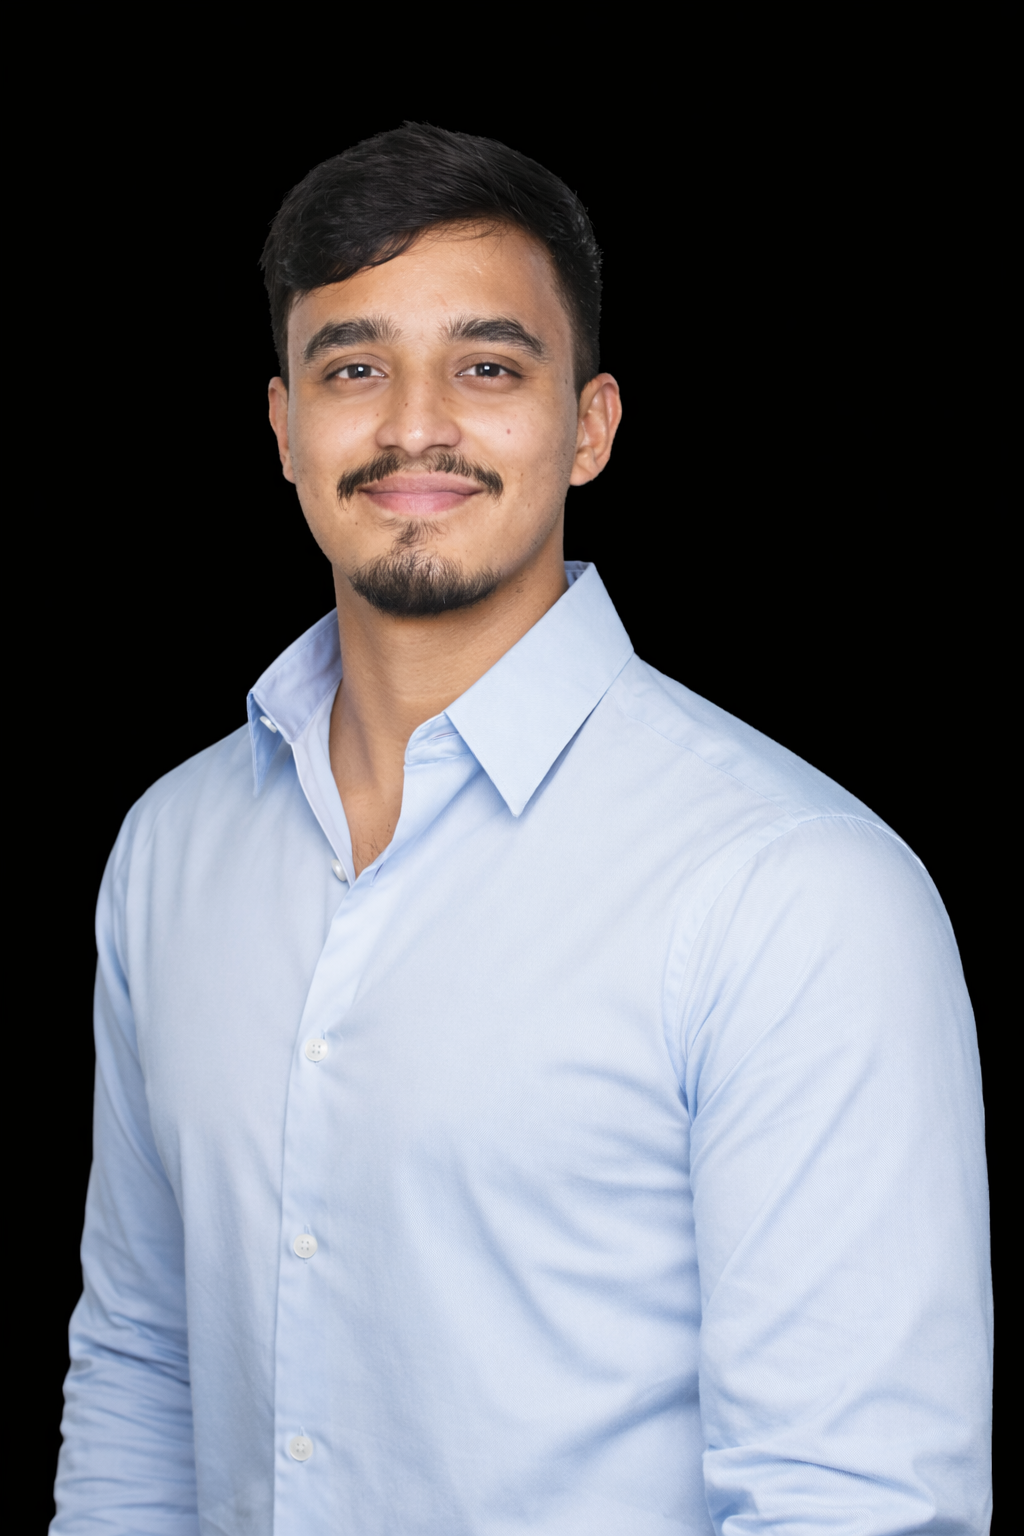
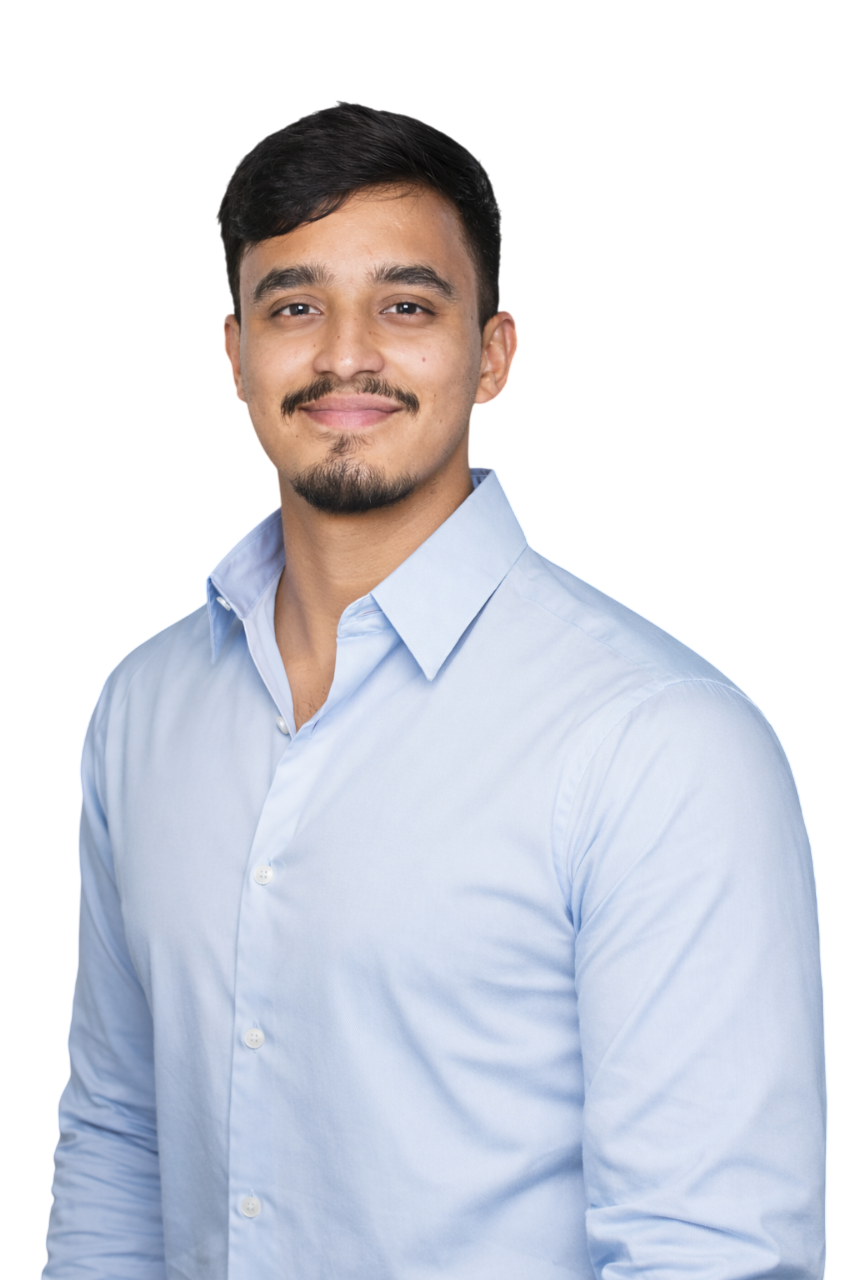
18th first commit

diff --git a/src/app/components/hero/hero.component.scss b/src/app/components/hero/hero.component.scss
@@ -6,6 +6,7 @@
     width: 100%;
     position: relative;
     overflow: hidden;
+    background: #0b0b0b;
 
     // Mobile first stack
     flex-direction: column-reverse;
@@ -14,15 +15,63 @@
         flex-direction: row;
     }
 
+    // ── Animated Background Shapes ──
+    .background-shapes {
+        position: absolute;
+        top: 0;
+        left: 0;
+        width: 100%;
+        height: 100%;
+        z-index: 0;
+        pointer-events: none;
+
+        .shape {
+            position: absolute;
+            border-radius: 50%;
+            filter: blur(100px);
+            opacity: 0.25;
+            animation: float 10s infinite ease-in-out;
+        }
+
+        .shape-1 {
+            top: -15%;
+            left: -10%;
+            width: 450px;
+            height: 450px;
+            background: radial-gradient(circle, $color-primary, transparent);
+            animation-delay: 0s;
+        }
+
+        .shape-2 {
+            bottom: -10%;
+            right: -5%;
+            width: 400px;
+            height: 400px;
+            background: radial-gradient(circle, #00bfff, transparent);
+            animation-delay: -4s;
+        }
+
+        .shape-3 {
+            top: 30%;
+            right: 20%;
+            width: 300px;
+            height: 300px;
+            background: radial-gradient(circle, #9d00ff, transparent);
+            animation-delay: -7s;
+        }
+    }
+
+    // ── Left Side: Text Content ──
     .hero-left {
         flex: 1;
-        background: $color-light-gray;
-        color: $color-bg-dark;
+        background: transparent;
+        color: #fff;
         display: flex;
         align-items: center;
         justify-content: flex-start;
         padding: 0 3rem 0 6rem;
         position: relative;
+        z-index: 1;
 
         .content {
             max-width: 600px;
@@ -30,30 +79,37 @@
         }
 
         .greeting {
-            font-size: 1.5rem;
-            font-weight: 700;
-            font-style: italic;
-            color: $color-bg-dark;
+            font-size: 1.2rem;
+            font-weight: 500;
+            color: $color-primary;
             display: block;
-            margin-bottom: 2rem;
+            margin-bottom: 1rem;
+            letter-spacing: 2px;
+            text-transform: uppercase;
         }
 
         h1 {
             font-size: 5rem;
             font-weight: 900;
             line-height: 1;
-            margin-bottom: 0.3rem;
-            color: $color-bg-dark;
+            margin-bottom: 0.5rem;
+            color: #fff;
             letter-spacing: -1px;
+            background: linear-gradient(135deg, #fff 0%, rgba(255, 255, 255, 0.7) 100%);
+            -webkit-background-clip: text;
+            background-clip: text;
+            -webkit-text-fill-color: transparent;
         }
 
         .role {
             font-size: 1.2rem;
             font-weight: 400;
-            color: #999;
+            color: $color-text-dim;
             margin-bottom: 0;
+            letter-spacing: 1px;
         }
 
+        // ── Social Icons ──
         .social-icons {
             position: absolute;
             bottom: 3rem;
@@ -62,54 +118,42 @@
             gap: 1rem;
 
             .social-icon {
-                width: 50px;
-                height: 50px;
+                width: 48px;
+                height: 48px;
                 display: flex;
                 align-items: center;
                 justify-content: center;
-                background: darken($color-light-gray, 8%);
-                border-radius: 10px;
-                color: $color-bg-dark;
-                transition: all 0.3s ease;
+                background: rgba(255, 255, 255, 0.05);
+                border: 1px solid rgba(255, 255, 255, 0.1);
+                border-radius: 12px;
+                color: $color-text-dim;
+                transition: all 0.3s cubic-bezier(0.16, 1, 0.3, 1);
 
                 &:hover {
-                    background: darken($color-light-gray, 15%);
-                    transform: translateY(-3px);
+                    color: $color-primary;
+                    background: rgba(0, 255, 127, 0.08);
+                    border-color: rgba(0, 255, 127, 0.25);
+                    transform: translateY(-4px);
+                    box-shadow: 0 8px 20px rgba(0, 255, 127, 0.15);
                 }
 
                 svg {
-                    width: 24px;
-                    height: 24px;
+                    width: 22px;
+                    height: 22px;
                 }
             }
         }
     }
 
+    // ── Right Side: Profile Image ──
     .hero-right {
         flex: 1;
-        background: #000000; // Pure black to match PNG photo background
+        background: transparent;
         display: flex;
         align-items: center;
         justify-content: center;
         position: relative;
-
-        // Diagonal Cut Effect
-
-        @media (min-width: 900px) {
-
-            // Skewed seperator
-            &::before {
-                content: '';
-                position: absolute;
-                top: 0;
-                left: -100px;
-                width: 150px;
-                height: 100%;
-                background: #000000;
-                transform: skewX(-10deg);
-                z-index: 1;
-            }
-        }
+        z-index: 1;
 
         .profile-image-container {
             z-index: 2;
@@ -117,14 +161,29 @@
             height: 100%;
             display: flex;
             justify-content: center;
-            align-items: flex-end; // Anchor to bottom
+            align-items: flex-end;
+            position: relative;
+
+            // ── Glow Effect ──
+            .image-glow {
+                position: absolute;
+                bottom: 15%;
+                left: 50%;
+                transform: translateX(-50%);
+                width: 320px;
+                height: 320px;
+                border-radius: 50%;
+                background: radial-gradient(circle, rgba(0, 255, 127, 0.2), rgba(0, 191, 255, 0.1), transparent 70%);
+                filter: blur(50px);
+                animation: glowPulse 4s ease-in-out infinite;
+                pointer-events: none;
+            }
 
             .image-wrapper {
                 width: auto;
-                height: 100%; // Fill full height
+                height: 100%;
                 max-width: 100%;
                 position: relative;
-
                 box-shadow: none;
                 border-radius: 0;
                 overflow: visible;
@@ -134,16 +193,109 @@
                     width: auto;
                     max-width: 100%;
                     object-fit: contain;
-                    object-position: bottom center; // Anchor person to bottom
+                    object-position: bottom center;
                     filter: none;
                     display: block;
-                    transition: transform 0.5s ease;
+                    transition: transform 0.5s cubic-bezier(0.16, 1, 0.3, 1);
 
                     &:hover {
                         transform: scale(1.03);
                     }
                 }
             }
+        }
+    }
+}
+
+// ── Keyframes ──
+@keyframes float {
+    0% {
+        transform: translate(0, 0);
+    }
+
+    50% {
+        transform: translate(20px, 20px);
+    }
+
+    100% {
+        transform: translate(0, 0);
+    }
+}
+
+@keyframes glowPulse {
+
+    0%,
+    100% {
+        opacity: 0.6;
+        transform: translateX(-50%) scale(1);
+    }
+
+    50% {
+        opacity: 1;
+        transform: translateX(-50%) scale(1.1);
+    }
+}
+
+// ── Responsive ──
+@media (max-width: 900px) {
+    .hero {
+        .hero-left {
+            padding: 2rem 2rem;
+            align-items: flex-start;
+            justify-content: center;
+            text-align: center;
+
+            .content {
+                display: flex;
+                flex-direction: column;
+                align-items: center;
+            }
+
+            h1 {
+                font-size: 3.5rem;
+            }
+
+            .social-icons {
+                position: relative;
+                bottom: auto;
+                left: auto;
+                margin-top: 2rem;
+                justify-content: center;
+            }
+        }
+
+        .hero-right {
+            flex: 0.8;
+
+            .profile-image-container .image-glow {
+                width: 220px;
+                height: 220px;
+            }
+        }
+    }
+}
+
+@media (max-width: 480px) {
+    .hero {
+        .hero-left {
+            padding: 1.5rem;
+
+            h1 {
+                font-size: 2.8rem;
+            }
+
+            .greeting {
+                font-size: 1rem;
+            }
+
+            .role {
+                font-size: 1rem;
+            }
+        }
+
+        .hero-right .profile-image-container .image-glow {
+            width: 180px;
+            height: 180px;
         }
     }
 }

diff --git a/src/app/components/hero/hero.component.html b/src/app/components/hero/hero.component.html
@@ -1,11 +1,19 @@
 <section class="hero">
+    <!-- Animated Background Shapes -->
+    <div class="background-shapes">
+        <div class="shape shape-1"></div>
+        <div class="shape shape-2"></div>
+        <div class="shape shape-3"></div>
+    </div>
+
     <div class="hero-left">
         <div class="content">
             <span class="greeting">Hi, I am</span>
             <h1>Aniket</h1>
             <h2 class="role">Full Stack Developer</h2>
             <div class="social-icons">
-                <a href="https://github.com/aniketsahu7686" target="_blank" rel="noopener" class="social-icon" aria-label="GitHub">
+                <a href="https://github.com/aniketsahu7686" target="_blank" rel="noopener" class="social-icon"
+                    aria-label="GitHub">
                     <svg xmlns="http://www.w3.org/2000/svg" width="24" height="24" viewBox="0 0 24 24"
                         fill="currentColor">
                         <path
@@ -20,8 +28,8 @@
                             d="M13.483 0a1.374 1.374 0 0 0-.961.438L7.116 6.226l-3.854 4.126a5.266 5.266 0 0 0-1.209 2.104 5.35 5.35 0 0 0-.125.513 5.527 5.527 0 0 0 .062 2.362 5.83 5.83 0 0 0 .349 1.017 5.938 5.938 0 0 0 1.271 1.818l4.277 4.193.039.038c2.248 2.165 5.852 2.133 8.063-.074l2.396-2.392c.54-.54.54-1.414.003-1.955a1.378 1.378 0 0 0-1.951-.003l-2.396 2.392a3.021 3.021 0 0 1-4.205.038l-.02-.019-4.276-4.193c-.652-.64-.972-1.469-.948-2.263a2.68 2.68 0 0 1 .066-.523 2.545 2.545 0 0 1 .619-1.164L9.13 8.114c1.058-1.134 3.204-1.27 4.43-.278l3.501 2.831c.593.48 1.461.387 1.94-.207a1.384 1.384 0 0 0-.207-1.943l-3.5-2.831c-.8-.647-1.766-1.045-2.774-1.202l2.015-2.158A1.384 1.384 0 0 0 13.483 0zm-2.866 12.815a1.38 1.38 0 0 0-1.38 1.382 1.38 1.38 0 0 0 1.38 1.382H20.79a1.38 1.38 0 0 0 1.38-1.382 1.38 1.38 0 0 0-1.38-1.382z" />
                     </svg>
                 </a>
-                <a href="https://www.linkedin.com/in/aniket-sahu-42a024236/" target="_blank" rel="noopener" class="social-icon"
-                    aria-label="LinkedIn">
+                <a href="https://www.linkedin.com/in/aniket-sahu-42a024236/" target="_blank" rel="noopener"
+                    class="social-icon" aria-label="LinkedIn">
                     <svg xmlns="http://www.w3.org/2000/svg" width="24" height="24" viewBox="0 0 24 24"
                         fill="currentColor">
                         <path
@@ -33,6 +41,7 @@
     </div>
     <div class="hero-right">
         <div class="profile-image-container">
+            <div class="image-glow"></div>
             <div class="image-wrapper">
                 <img src="assets/profile.png" alt="Aniket - Frontend Developer" class="profile-img">
             </div>
